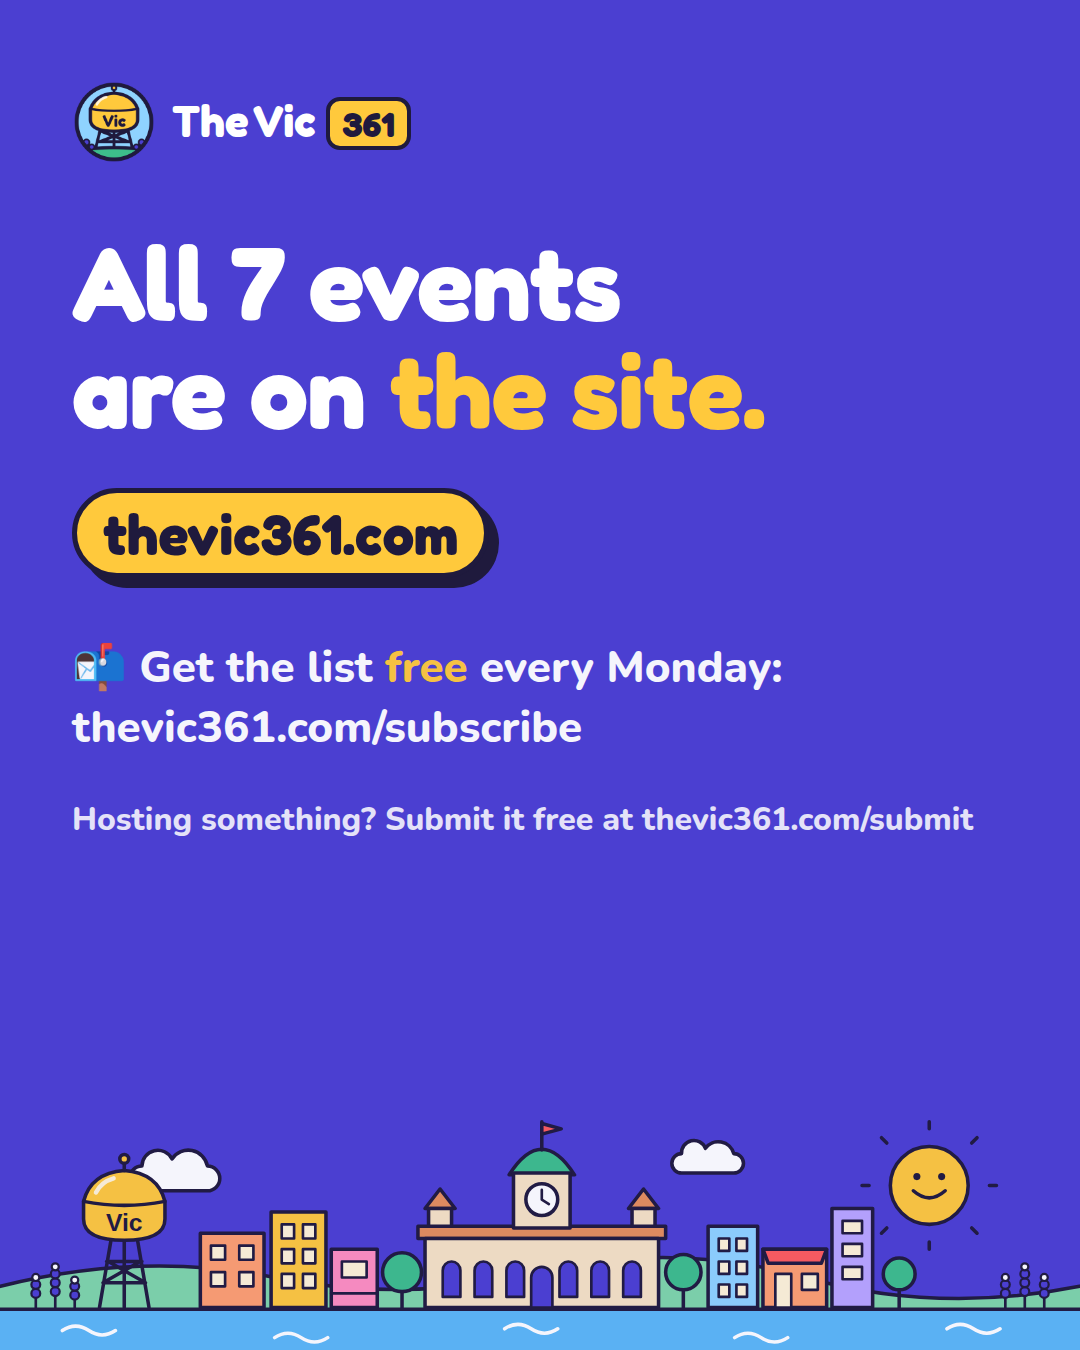
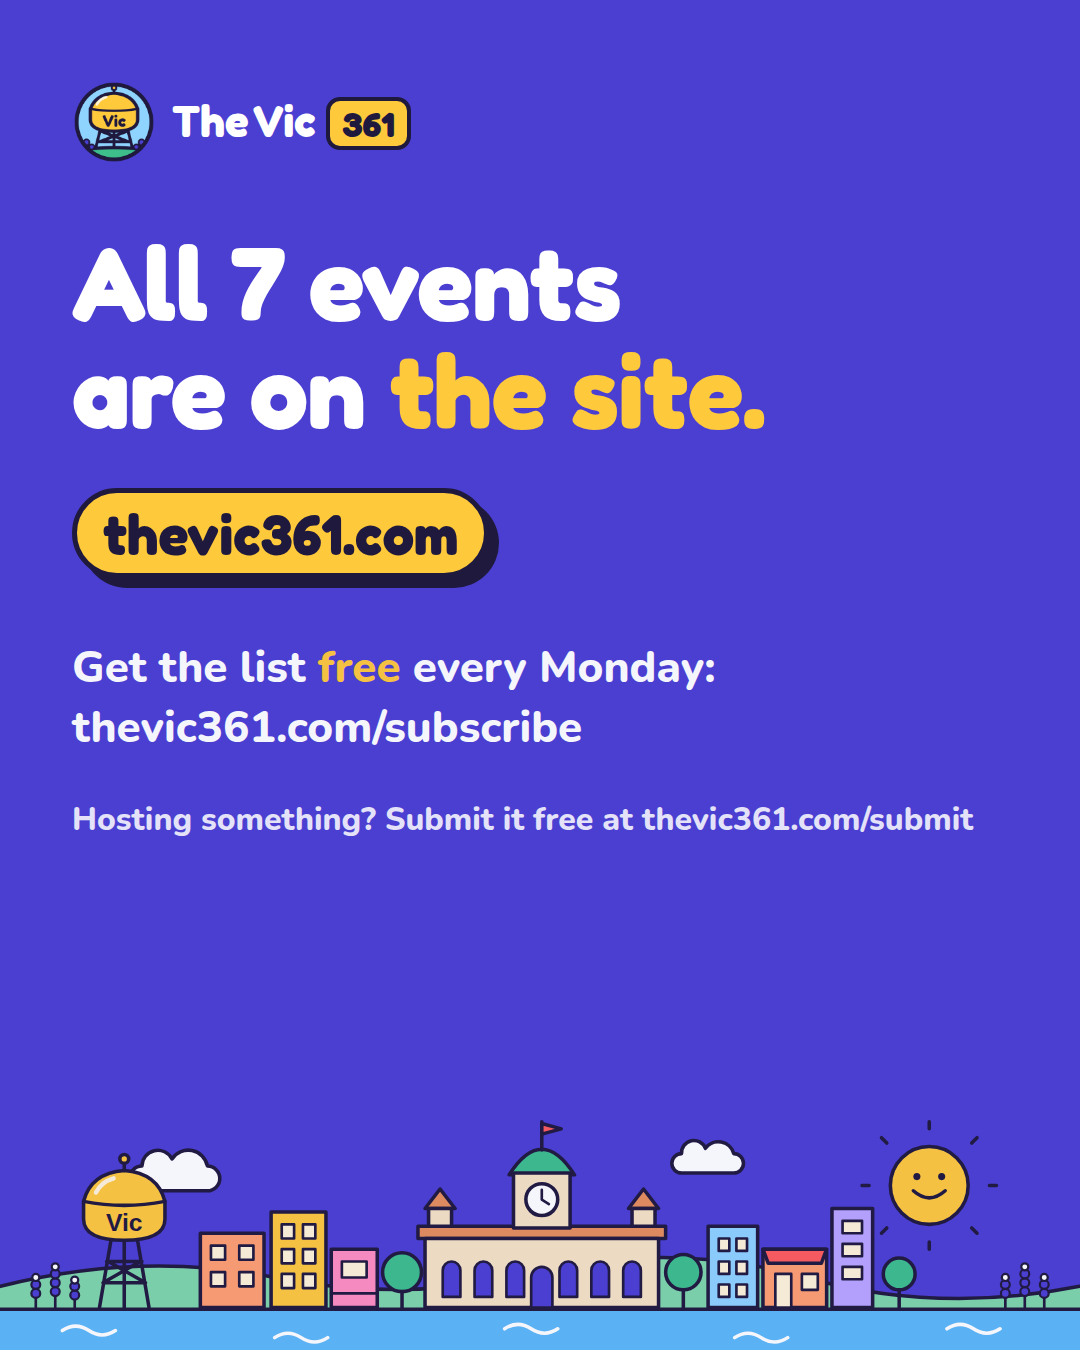
📣 Social kit 2026-10-06

Changed region(s): [[0.0611, 0.4667, 0.7333, 0.5289]]

diff --git a/docs/social/latest/index.html b/docs/social/latest/index.html
@@ -8,7 +8,7 @@ h1{font-size:1.5rem;margin:0 0 4px} .meta{color:#5C5878;margin:0 0 16px}
 textarea{width:100%;min-height:180px;font:14px/1.4 ui-monospace,monospace;box-sizing:border-box;padding:8px;border:1px solid #CFC9B2;border-radius:6px}
 button{font:inherit;margin:6px 0 16px;padding:8px 14px;border-radius:999px;border:0;background:#4E47B8;color:#fff}
 </style></head><body>
-<h1>Social kit</h1><p class="meta">Generated Mon Oct 05, 07:45 PM CT from the published events. Tap a slide to save it, then copy a caption.</p>
+<h1>Social kit</h1><p class="meta">Generated Mon Oct 05, 07:50 PM CT from the published events. Tap a slide to save it, then copy a caption.</p>
 <section><h2>This Week in Victoria</h2><div class="slides"><a href="week-1.png" download><img src="week-1.png" alt="week slide 1" loading="lazy"></a><a href="week-2.png" download><img src="week-2.png" alt="week slide 2" loading="lazy"></a><a href="week-3.png" download><img src="week-3.png" alt="week slide 3" loading="lazy"></a></div><h3>Facebook</h3><textarea id="week-facebook" readonly>This week in Victoria, TX (Oct 5–11): 68 events
 
 MONDAY
@@ -47,7 +47,7 @@ SUNDAY
 + 2 more
 
 👉 See all 68: https://www.thevic361.com/
-📬 Get the list free every Monday: https://www.thevic361.com/subscribe
+Get the list free every Monday: https://www.thevic361.com/subscribe
 
 #VictoriaTX #ThingsToDoVictoria #VictoriaTexas #361 #TheVic361
 </textarea><button type="button" data-copy="week-facebook">Copy Facebook caption</button><h3>Instagram</h3><textarea id="week-instagram" readonly>This week in Victoria, TX (Oct 5–11): 68 events
@@ -88,7 +88,7 @@ SUNDAY
 + 2 more
 
 👉 See all 68: link in bio (thevic361.com)
-📬 Get the list free every Monday: link in bio
+Get the list free every Monday: link in bio
 
 @mdrinkery @dodgecityvictoriatx @weberbrewing @victoriafarmersmarket @aerocrafters @lacantinavictoria @shooters_bar4705 @jwelchfarms @theatrevictoria @5dtavern_victoria @thenavemuseum @victoriapumphouse
 
@@ -111,7 +111,7 @@ SUNDAY
 + 2 more
 
 👉 See all 28: https://www.thevic361.com/this-weekend
-📬 Get the list free every Monday: https://www.thevic361.com/subscribe
+Get the list free every Monday: https://www.thevic361.com/subscribe
 
 #VictoriaTX #ThingsToDoVictoria #VictoriaTexas #361 #TheVic361
 </textarea><button type="button" data-copy="weekend-facebook">Copy Facebook caption</button><h3>Instagram</h3><textarea id="weekend-instagram" readonly>This weekend in Victoria, TX (Oct 9–11): 28 events
@@ -132,7 +132,7 @@ SUNDAY
 + 2 more
 
 👉 See all 28: link in bio (thevic361.com)
-📬 Get the list free every Monday: link in bio
+Get the list free every Monday: link in bio
 
 @jwelchfarms @aerocrafters @theatrevictoria @lacantinavictoria @thenavemuseum @mdrinkery @weberbrewing @victoriafarmersmarket @victoriapumphouse
 
@@ -144,7 +144,7 @@ SUNDAY
 + 5 more
 
 👉 See all 7: https://www.thevic361.com/today
-📬 Get the list free every Monday: https://www.thevic361.com/subscribe
+Get the list free every Monday: https://www.thevic361.com/subscribe
 
 #VictoriaTX #ThingsToDoVictoria #VictoriaTexas #361 #TheVic361
 </textarea><button type="button" data-copy="today-facebook">Copy Facebook caption</button><h3>Instagram</h3><textarea id="today-instagram" readonly>Today in Victoria, TX (Oct 5): 7 events
@@ -154,7 +154,7 @@ SUNDAY
 + 5 more
 
 👉 See all 7: link in bio (thevic361.com)
-📬 Get the list free every Monday: link in bio
+Get the list free every Monday: link in bio
 
 @mdrinkery
 
